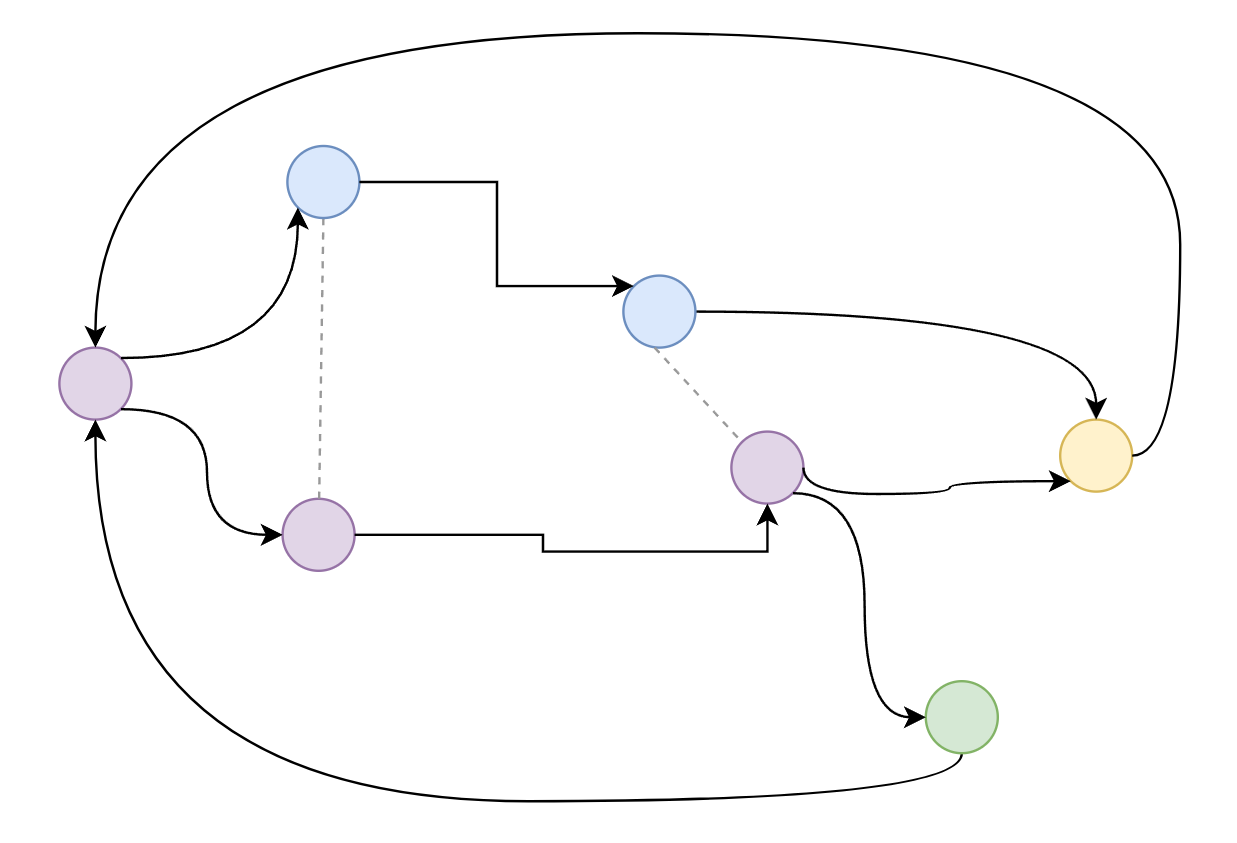
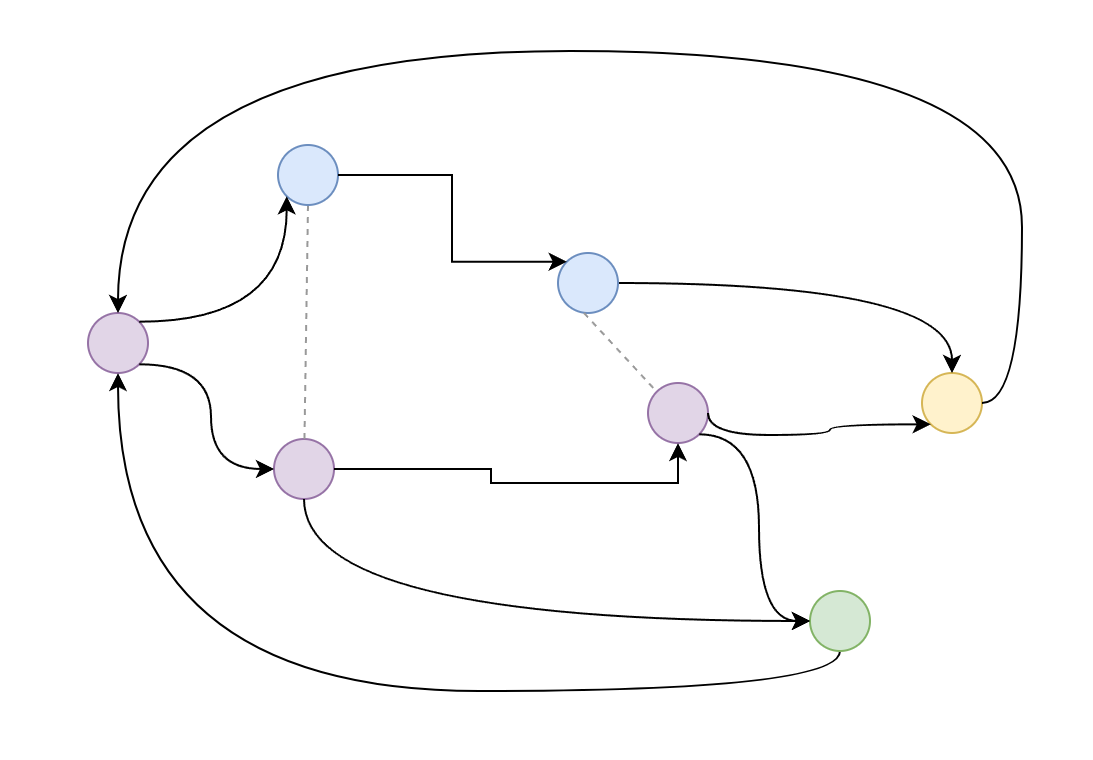
PNG fix

diff --git a/description-2.html b/description-2.html
@@ -114,7 +114,7 @@
 
     <p>This project mirrors that dynamic. The surface narrative appears to be about my cousin's life and my own path. <span class="milky">Milky</span> is rarely visible. References to her, textual and photographic, are hidden throughout the pages, embedded in hover interactions that require the reader to actively seek them out.</p>
 
-    <img class="diagram" src="diagram.png" alt="">
+    <img class="diagram" src="diagram.PNG" alt="">
     <p class="meta" style="text-align: center;">diagram of hyperlink relations between pages</p>
 
     <p>The site is non-linear and looping. Hypertext links between pages allow readers to move freely and return to the starting point repeatedly, simulating the circular, involuntary imagination of alternative futures that both my imposter syndrome and the panic of the incident set in motion.</p>

diff --git a/shimmer.html b/shimmer.html
@@ -139,7 +139,7 @@
     <p>Basset hounds have always been my favorite dog.</p>
 
     <a href="https://www.youtube.com/watch?v=kOCFq-6D0ss" target="_blank">
-        <img class="photo" src="shimmer-ytb.png" alt="">
+        <img class="photo" src="shimmer-ytb.PNG" alt="">
     </a>
 
     <p>After finally figuring out the financial and timely responsibility involved, I decided I was ready to become a responsible owner.</p>
